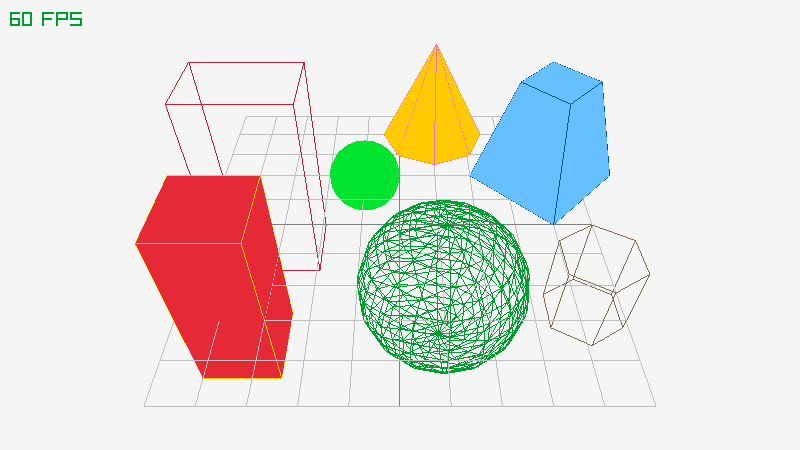
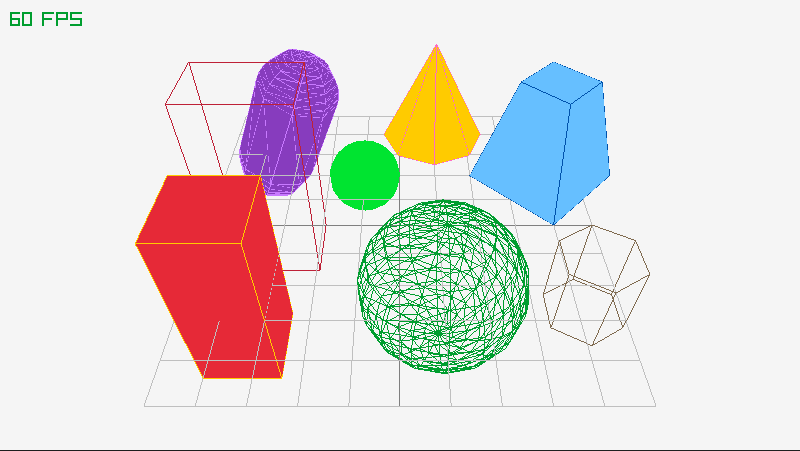
Add DrawCapsule(Wires) (#2761)
* Add DrawCapsule & DrawCapsuleWires

* Add DrawCapsule & DrawCapsuleWires to example

diff --git a/src/rmodels.c b/src/rmodels.c
@@ -817,6 +817,284 @@ void DrawCylinderWiresEx(Vector3 startPos, Vector3 endPos, float startRadius, fl
     rlEnd();
 }
 
+// Draw a capsule with the center of its sphere caps at startPos and endPos
+void DrawCapsule(Vector3 startPos, Vector3 endPos, float radius, int slices, int rings, Color color)
+{
+    if (slices < 3) slices = 3;
+
+    Vector3 direction = { endPos.x - startPos.x, endPos.y - startPos.y, endPos.z - startPos.z };
+    
+    // draw a sphere if start and end points are the same
+    bool sphereCase = (direction.x == 0) && (direction.y == 0) && (direction.z == 0);
+    if (sphereCase) direction = (Vector3){0.0f, 1.0f, 0.0f};
+
+    // Construct a basis of the base and the caps:
+    Vector3 b0 = Vector3Normalize(direction);
+    Vector3 b1 = Vector3Normalize(Vector3Perpendicular(direction));
+    Vector3 b2 = Vector3Normalize(Vector3CrossProduct(b1, direction));
+    Vector3 capCenter = endPos;
+
+    float baseSliceAngle = (2.0f*PI)/slices;
+    float baseRingAngle  = PI * 0.5 / rings; 
+
+    rlBegin(RL_TRIANGLES);
+        rlColor4ub(color.r, color.g, color.b, color.a);
+
+        // render both caps
+        for (int c = 0; c < 2; c++)
+        {
+            for (int i = 0; i < rings; i++)
+            {
+                for (int j = 0; j < slices; j++) 
+                {
+
+                    // we build up the rings from capCenter in the direction of the 'direction' vector we computed earlier
+
+                    // as we iterate through the rings they must be placed higher above the center, the height we need is sin(angle(i))
+                    // as we iterate through the rings they must get smaller by the cos(angle(i))
+
+                    // compute the four vertices
+                    float ringSin1 = sinf(baseSliceAngle*(j + 0))*cosf(baseRingAngle * ( i + 0 ));
+                    float ringCos1 = cosf(baseSliceAngle*(j + 0))*cosf(baseRingAngle * ( i + 0 ));
+                    Vector3 w1 = (Vector3){ 
+                        capCenter.x + (sinf(baseRingAngle * ( i + 0 ))*b0.x + ringSin1*b1.x + ringCos1*b2.x) * radius,
+                        capCenter.y + (sinf(baseRingAngle * ( i + 0 ))*b0.y + ringSin1*b1.y + ringCos1*b2.y) * radius, 
+                        capCenter.z + (sinf(baseRingAngle * ( i + 0 ))*b0.z + ringSin1*b1.z + ringCos1*b2.z) * radius
+                    };
+                    float ringSin2 = sinf(baseSliceAngle*(j + 1))*cosf(baseRingAngle * ( i + 0 ));
+                    float ringCos2 = cosf(baseSliceAngle*(j + 1))*cosf(baseRingAngle * ( i + 0 ));
+                    Vector3 w2 = (Vector3){ 
+                        capCenter.x + (sinf(baseRingAngle * ( i + 0 ))*b0.x + ringSin2*b1.x + ringCos2*b2.x) * radius, 
+                        capCenter.y + (sinf(baseRingAngle * ( i + 0 ))*b0.y + ringSin2*b1.y + ringCos2*b2.y) * radius, 
+                        capCenter.z + (sinf(baseRingAngle * ( i + 0 ))*b0.z + ringSin2*b1.z + ringCos2*b2.z) * radius 
+                    };
+
+                    float ringSin3 = sinf(baseSliceAngle*(j + 0))*cosf(baseRingAngle * ( i + 1 ));
+                    float ringCos3 = cosf(baseSliceAngle*(j + 0))*cosf(baseRingAngle * ( i + 1 ));
+                    Vector3 w3 = (Vector3){ 
+                        capCenter.x + (sinf(baseRingAngle * ( i + 1 ))*b0.x + ringSin3*b1.x + ringCos3*b2.x) * radius, 
+                        capCenter.y + (sinf(baseRingAngle * ( i + 1 ))*b0.y + ringSin3*b1.y + ringCos3*b2.y) * radius, 
+                        capCenter.z + (sinf(baseRingAngle * ( i + 1 ))*b0.z + ringSin3*b1.z + ringCos3*b2.z) * radius 
+                    };
+                    float ringSin4 = sinf(baseSliceAngle*(j + 1))*cosf(baseRingAngle * ( i + 1 ));
+                    float ringCos4 = cosf(baseSliceAngle*(j + 1))*cosf(baseRingAngle * ( i + 1 ));
+                    Vector3 w4 = (Vector3){ 
+                        capCenter.x + (sinf(baseRingAngle * ( i + 1 ))*b0.x + ringSin4*b1.x + ringCos4*b2.x) * radius, 
+                        capCenter.y + (sinf(baseRingAngle * ( i + 1 ))*b0.y + ringSin4*b1.y + ringCos4*b2.y) * radius, 
+                        capCenter.z + (sinf(baseRingAngle * ( i + 1 ))*b0.z + ringSin4*b1.z + ringCos4*b2.z) * radius 
+                    };
+
+                    // make sure cap triangle normals are facing outwards
+                    if(c == 0)
+                    {
+                        rlVertex3f(w1.x, w1.y, w1.z);
+                        rlVertex3f(w2.x, w2.y, w2.z);
+                        rlVertex3f(w3.x, w3.y, w3.z);
+                        
+                        rlVertex3f(w2.x, w2.y, w2.z);   
+                        rlVertex3f(w4.x, w4.y, w4.z);  
+                        rlVertex3f(w3.x, w3.y, w3.z); 
+                    }
+                    else
+                    {
+                        rlVertex3f(w1.x, w1.y, w1.z);
+                        rlVertex3f(w3.x, w3.y, w3.z);
+                        rlVertex3f(w2.x, w2.y, w2.z);
+
+                        rlVertex3f(w2.x, w2.y, w2.z);  
+                        rlVertex3f(w3.x, w3.y, w3.z);  
+                        rlVertex3f(w4.x, w4.y, w4.z);     
+                    }
+                }
+            }
+            capCenter = startPos;
+            b0 = Vector3Scale(b0, -1.0f);
+        }
+        // render middle
+        if (!sphereCase)
+        {
+            for (int j = 0; j < slices; j++) 
+            {
+                // compute the four vertices
+                float ringSin1 = sinf(baseSliceAngle*(j + 0))*radius;
+                float ringCos1 = cosf(baseSliceAngle*(j + 0))*radius;
+                Vector3 w1 = { 
+                    startPos.x + ringSin1*b1.x + ringCos1*b2.x,
+                    startPos.y + ringSin1*b1.y + ringCos1*b2.y, 
+                    startPos.z + ringSin1*b1.z + ringCos1*b2.z 
+                };
+                float ringSin2 = sinf(baseSliceAngle*(j + 1))*radius;
+                float ringCos2 = cosf(baseSliceAngle*(j + 1))*radius;
+                Vector3 w2 = { 
+                    startPos.x + ringSin2*b1.x + ringCos2*b2.x, 
+                    startPos.y + ringSin2*b1.y + ringCos2*b2.y, 
+                    startPos.z + ringSin2*b1.z + ringCos2*b2.z 
+                };
+
+                float ringSin3 = sinf(baseSliceAngle*(j + 0))*radius;
+                float ringCos3 = cosf(baseSliceAngle*(j + 0))*radius;
+                Vector3 w3 = { 
+                    endPos.x + ringSin3*b1.x + ringCos3*b2.x, 
+                    endPos.y + ringSin3*b1.y + ringCos3*b2.y, 
+                    endPos.z + ringSin3*b1.z + ringCos3*b2.z 
+                };
+                float ringSin4 = sinf(baseSliceAngle*(j + 1))*radius;
+                float ringCos4 = cosf(baseSliceAngle*(j + 1))*radius;
+                Vector3 w4 = { 
+                    endPos.x + ringSin4*b1.x + ringCos4*b2.x, 
+                    endPos.y + ringSin4*b1.y + ringCos4*b2.y, 
+                    endPos.z + ringSin4*b1.z + ringCos4*b2.z 
+                };
+                                                                        //          w2 x.-----------x startPos
+                rlVertex3f(w1.x, w1.y, w1.z);                         // |           |\'.  T0    /
+                rlVertex3f(w2.x, w2.y, w2.z);                         // T1          | \ '.     /
+                rlVertex3f(w3.x, w3.y, w3.z);                         // |           |T \  '.  /
+                                                                        //             | 2 \ T 'x w1
+                rlVertex3f(w2.x, w2.y, w2.z);                         // |        w4 x.---\-1-|---x endPos
+                rlVertex3f(w4.x, w4.y, w4.z);                         // T2            '.  \  |T3/
+                rlVertex3f(w3.x, w3.y, w3.z);                         // |               '. \ | /
+                                                                        //                   '.\|/
+                                                                        //                   'x w3
+            }
+        }
+    rlEnd();
+}
+
+// Draw capsule wires with the center of its sphere caps at startPos and endPos
+void DrawCapsuleWires(Vector3 startPos, Vector3 endPos, float radius, int slices, int rings, Color color)
+{
+    if (slices < 3) slices = 3;
+
+    Vector3 direction = { endPos.x - startPos.x, endPos.y - startPos.y, endPos.z - startPos.z };
+
+    // draw a sphere if start and end points are the same
+    bool sphereCase = (direction.x == 0) && (direction.y == 0) && (direction.z == 0);
+    if (sphereCase) direction = (Vector3){0.0f, 1.0f, 0.0f};
+
+    // Construct a basis of the base and the caps:
+    Vector3 b0 = Vector3Normalize(direction);
+    Vector3 b1 = Vector3Normalize(Vector3Perpendicular(direction));
+    Vector3 b2 = Vector3Normalize(Vector3CrossProduct(b1, direction));
+    Vector3 capCenter = endPos;
+
+    float baseSliceAngle = (2.0f*PI)/slices;
+    float baseRingAngle  = PI * 0.5 / rings; 
+
+    rlBegin(RL_LINES);
+        rlColor4ub(color.r, color.g, color.b, color.a);
+
+        // render both caps
+        for (int c = 0; c < 2; c++)
+        {
+            for (int i = 0; i < rings; i++)
+            {
+                for (int j = 0; j < slices; j++) 
+                {
+
+                    // we build up the rings from capCenter in the direction of the 'direction' vector we computed earlier
+
+                    // as we iterate through the rings they must be placed higher above the center, the height we need is sin(angle(i))
+                    // as we iterate through the rings they must get smaller by the cos(angle(i))
+
+                    // compute the four vertices
+                    float ringSin1 = sinf(baseSliceAngle*(j + 0))*cosf(baseRingAngle * ( i + 0 ));
+                    float ringCos1 = cosf(baseSliceAngle*(j + 0))*cosf(baseRingAngle * ( i + 0 ));
+                    Vector3 w1 = (Vector3){ 
+                        capCenter.x + (sinf(baseRingAngle * ( i + 0 ))*b0.x + ringSin1*b1.x + ringCos1*b2.x) * radius,
+                        capCenter.y + (sinf(baseRingAngle * ( i + 0 ))*b0.y + ringSin1*b1.y + ringCos1*b2.y) * radius, 
+                        capCenter.z + (sinf(baseRingAngle * ( i + 0 ))*b0.z + ringSin1*b1.z + ringCos1*b2.z) * radius
+                    };
+                    float ringSin2 = sinf(baseSliceAngle*(j + 1))*cosf(baseRingAngle * ( i + 0 ));
+                    float ringCos2 = cosf(baseSliceAngle*(j + 1))*cosf(baseRingAngle * ( i + 0 ));
+                    Vector3 w2 = (Vector3){ 
+                        capCenter.x + (sinf(baseRingAngle * ( i + 0 ))*b0.x + ringSin2*b1.x + ringCos2*b2.x) * radius, 
+                        capCenter.y + (sinf(baseRingAngle * ( i + 0 ))*b0.y + ringSin2*b1.y + ringCos2*b2.y) * radius, 
+                        capCenter.z + (sinf(baseRingAngle * ( i + 0 ))*b0.z + ringSin2*b1.z + ringCos2*b2.z) * radius 
+                    };
+
+                    float ringSin3 = sinf(baseSliceAngle*(j + 0))*cosf(baseRingAngle * ( i + 1 ));
+                    float ringCos3 = cosf(baseSliceAngle*(j + 0))*cosf(baseRingAngle * ( i + 1 ));
+                    Vector3 w3 = (Vector3){ 
+                        capCenter.x + (sinf(baseRingAngle * ( i + 1 ))*b0.x + ringSin3*b1.x + ringCos3*b2.x) * radius, 
+                        capCenter.y + (sinf(baseRingAngle * ( i + 1 ))*b0.y + ringSin3*b1.y + ringCos3*b2.y) * radius, 
+                        capCenter.z + (sinf(baseRingAngle * ( i + 1 ))*b0.z + ringSin3*b1.z + ringCos3*b2.z) * radius 
+                    };
+                    float ringSin4 = sinf(baseSliceAngle*(j + 1))*cosf(baseRingAngle * ( i + 1 ));
+                    float ringCos4 = cosf(baseSliceAngle*(j + 1))*cosf(baseRingAngle * ( i + 1 ));
+                    Vector3 w4 = (Vector3){ 
+                        capCenter.x + (sinf(baseRingAngle * ( i + 1 ))*b0.x + ringSin4*b1.x + ringCos4*b2.x) * radius, 
+                        capCenter.y + (sinf(baseRingAngle * ( i + 1 ))*b0.y + ringSin4*b1.y + ringCos4*b2.y) * radius, 
+                        capCenter.z + (sinf(baseRingAngle * ( i + 1 ))*b0.z + ringSin4*b1.z + ringCos4*b2.z) * radius 
+                    };
+
+                    rlVertex3f(w1.x, w1.y, w1.z);
+                    rlVertex3f(w2.x, w2.y, w2.z);
+
+                    rlVertex3f(w2.x, w2.y, w2.z);
+                    rlVertex3f(w3.x, w3.y, w3.z);
+
+                    rlVertex3f(w1.x, w1.y, w1.z);
+                    rlVertex3f(w3.x, w3.y, w3.z);
+                    
+                    rlVertex3f(w2.x, w2.y, w2.z);   
+                    rlVertex3f(w4.x, w4.y, w4.z); 
+
+                    rlVertex3f(w3.x, w3.y, w3.z);
+                    rlVertex3f(w4.x, w4.y, w4.z); 
+                }
+            }
+            capCenter = startPos;
+            b0 = Vector3Scale(b0, -1.0f);
+        }
+        // render middle
+        if (!sphereCase)
+        {
+            for (int j = 0; j < slices; j++) 
+            {
+                // compute the four vertices
+                float ringSin1 = sinf(baseSliceAngle*(j + 0))*radius;
+                float ringCos1 = cosf(baseSliceAngle*(j + 0))*radius;
+                Vector3 w1 = { 
+                    startPos.x + ringSin1*b1.x + ringCos1*b2.x,
+                    startPos.y + ringSin1*b1.y + ringCos1*b2.y, 
+                    startPos.z + ringSin1*b1.z + ringCos1*b2.z 
+                };
+                float ringSin2 = sinf(baseSliceAngle*(j + 1))*radius;
+                float ringCos2 = cosf(baseSliceAngle*(j + 1))*radius;
+                Vector3 w2 = { 
+                    startPos.x + ringSin2*b1.x + ringCos2*b2.x, 
+                    startPos.y + ringSin2*b1.y + ringCos2*b2.y, 
+                    startPos.z + ringSin2*b1.z + ringCos2*b2.z 
+                };
+
+                float ringSin3 = sinf(baseSliceAngle*(j + 0))*radius;
+                float ringCos3 = cosf(baseSliceAngle*(j + 0))*radius;
+                Vector3 w3 = { 
+                    endPos.x + ringSin3*b1.x + ringCos3*b2.x, 
+                    endPos.y + ringSin3*b1.y + ringCos3*b2.y, 
+                    endPos.z + ringSin3*b1.z + ringCos3*b2.z 
+                };
+                float ringSin4 = sinf(baseSliceAngle*(j + 1))*radius;
+                float ringCos4 = cosf(baseSliceAngle*(j + 1))*radius;
+                Vector3 w4 = { 
+                    endPos.x + ringSin4*b1.x + ringCos4*b2.x, 
+                    endPos.y + ringSin4*b1.y + ringCos4*b2.y, 
+                    endPos.z + ringSin4*b1.z + ringCos4*b2.z 
+                };
+
+                rlVertex3f(w1.x, w1.y, w1.z); 
+                rlVertex3f(w3.x, w3.y, w3.z);
+
+                rlVertex3f(w2.x, w2.y, w2.z); 
+                rlVertex3f(w4.x, w4.y, w4.z); 
+
+                rlVertex3f(w2.x, w2.y, w2.z); 
+                rlVertex3f(w3.x, w3.y, w3.z);
+            }
+        }
+    rlEnd();
+}
+
 // Draw a plane
 void DrawPlane(Vector3 centerPos, Vector2 size, Color color)
 {

diff --git a/src/raylib.h b/src/raylib.h
@@ -1423,6 +1423,8 @@ RLAPI void DrawCylinder(Vector3 position, float radiusTop, float radiusBottom, f
 RLAPI void DrawCylinderEx(Vector3 startPos, Vector3 endPos, float startRadius, float endRadius, int sides, Color color); // Draw a cylinder with base at startPos and top at endPos
 RLAPI void DrawCylinderWires(Vector3 position, float radiusTop, float radiusBottom, float height, int slices, Color color); // Draw a cylinder/cone wires
 RLAPI void DrawCylinderWiresEx(Vector3 startPos, Vector3 endPos, float startRadius, float endRadius, int sides, Color color); // Draw a cylinder wires with base at startPos and top at endPos
+RLAPI void DrawCapsule(Vector3 startPos, Vector3 endPos, float radius, int slices, int rings, Color color); // Draw a capsule with the center of its sphere caps at startPos and endPos
+RLAPI void DrawCapsuleWires(Vector3 startPos, Vector3 endPos, float radius, int slices, int rings, Color color); // Draw capsule wireframe with the center of its sphere caps at startPos and endPos
 RLAPI void DrawPlane(Vector3 centerPos, Vector2 size, Color color);                                      // Draw a plane XZ
 RLAPI void DrawRay(Ray ray, Color color);                                                                // Draw a ray line
 RLAPI void DrawGrid(int slices, float spacing);                                                          // Draw a grid (centered at (0, 0, 0))

diff --git a/examples/models/models_geometric_shapes.c b/examples/models/models_geometric_shapes.c
@@ -66,6 +66,9 @@ int main(void)
                 DrawCylinder((Vector3){1.0f, 0.0f, -4.0f}, 0.0f, 1.5f, 3.0f, 8, GOLD);
                 DrawCylinderWires((Vector3){1.0f, 0.0f, -4.0f}, 0.0f, 1.5f, 3.0f, 8, PINK);
 
+                DrawCapsule     ((Vector3){-3.0f, 1.5f, -4.0f}, (Vector3){-4.0f, -1.0f, -4.0f}, 1.2f, 8, 8, VIOLET);
+                DrawCapsuleWires((Vector3){-3.0f, 1.5f, -4.0f}, (Vector3){-4.0f, -1.0f, -4.0f}, 1.2f, 8, 8, PURPLE);
+
                 DrawGrid(10, 1.0f);        // Draw a grid
 
             EndMode3D();
